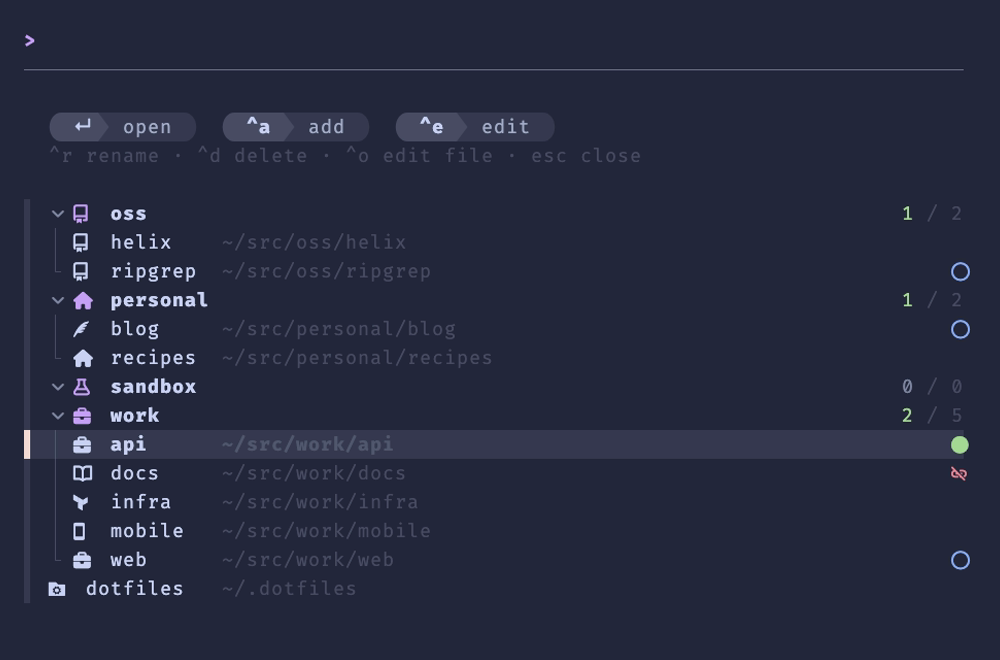
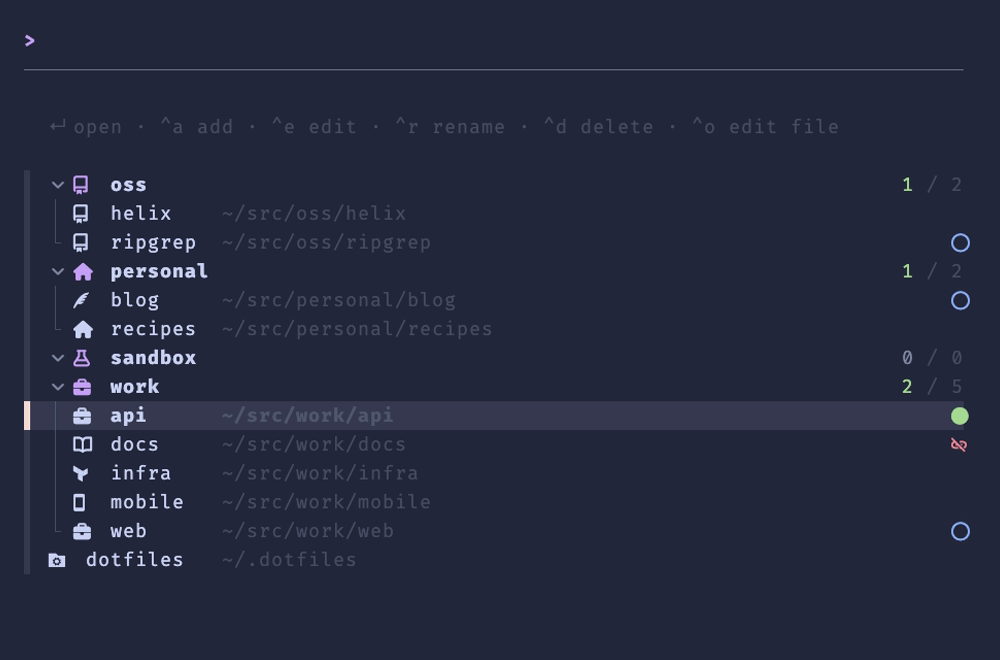
Put the picker's key hints on one line; release 1.0.1 (#18)
- No pills: in pr-tracker pills are dynamic filters, and this picker has
none. The main list, invalid-registry and add/edit headers now use a
single dim hint line (add/edit screens lead with their context, e.g.
`Add ~/src/work/api`, in text colour)
- Removes the pill helpers from `theme.py`; screenshots regenerated
- Release 1.0.1: version bump and CHANGELOG

🤖 Generated with [Claude Code](https://claude.com/claude-code)

https://claude.ai/code/session_01WdnVnGihazJj3fMLks7EL1

---------

diff --git a/tests/test_flow.py b/tests/test_flow.py
@@ -162,9 +162,9 @@ def test_add_with_a_group_and_its_icon(root, here, script):
     assert added(root) == [Project(name="unregistered", group="work", path=str(here))]
     assert calls[0]["prompt"] == "Name: "
     assert calls[0]["args"][-2:] == ("--query", "unregistered")
-    assert calls[0]["header"] == theme.header(
-        theme.LATTE, [theme.pill("Add", "~/unregistered", theme.LATTE)], flow.HINTS
-    )
+    assert calls[0]["header"] == theme.header(theme.LATTE, flow.HINTS, title="Add ~/unregistered")
+    hints = theme.strip(calls[0]["header"]).split("\n")[1]
+    assert hints == "Add ~/unregistered · \u21b5 accept · esc discards"
     assert calls[1]["text"].split("\n")[2] == "   none\t"
     assert "load:pos(3)" in calls[1]["args"]
 
@@ -227,7 +227,7 @@ def test_add_on_a_registered_path_edits_it(root, herdr, monkeypatch, script):
     answers, calls = script
     answers += ["", row("=home"), row("used by gone")]
     assert flow.add() == "Updated G home/notes"
-    assert theme.pill("Edit", "~/notes", theme.LATTE) in calls[0]["header"]
+    assert theme.strip(calls[0]["header"]).split("\n")[1] == f"Edit ~/notes · {flow.HINTS}"
     assert calls[0]["args"][-2:] == ("--query", "notes")
     assert "load:pos(3)" in calls[1]["args"]
     assert "load:pos(5)" in calls[2]["args"]
@@ -249,7 +249,7 @@ def test_the_flow_is_drawn_in_the_popups_palette(root, herdr, script):
     answers, calls = script
     answers += [Cancelled]
     assert flow.edit("work/api", theme.MACCHIATO) == ""
-    assert theme.pill("Edit", "~/api", theme.MACCHIATO) in calls[0]["header"]
+    assert calls[0]["header"] == theme.header(theme.MACCHIATO, flow.HINTS, title="Edit ~/api")
 
 
 def test_edit_that_changes_nothing_leaves_the_file_alone(root, herdr, script):
@@ -359,9 +359,7 @@ def test_edit_group_renames_it_and_its_projects(root, herdr, script):
     assert labels == ["gone", "notes", "home/web", "job/api", "job/web"]
     assert [c["prompt"] for c in calls] == ["Name: ", "Icon: "]
     assert calls[0]["args"][-2:] == ("--query", "work")
-    assert calls[0]["header"] == theme.header(
-        theme.LATTE, [theme.pill("Edit group", "work", theme.LATTE)], flow.HINTS
-    )
+    assert calls[0]["header"] == theme.header(theme.LATTE, flow.HINTS, title="Edit group work")
 
 
 def test_edit_group_starts_on_keep_current(root, herdr, script):

diff --git a/lib/herdr_projects/theme.py b/lib/herdr_projects/theme.py
@@ -1,4 +1,4 @@
-"""The picker's look, copied from pr-tracker: Catppuccin Latte or Macchiato, key pills.
+"""The picker's look, copied from pr-tracker: Catppuccin Latte or Macchiato, a dim hint line.
 
 Hue is for status only; chrome draws from the neutral ramp.
 """
@@ -50,10 +50,6 @@ MACCHIATO: Palette = {
     "blue": (138, 173, 244),
 }
 
-PILL_L = ""  # nf-ple-left_half_circle_thick
-PILL_R = ""  # nf-ple-right_half_circle_thick
-PILL_SEP = ""  # nf-pl-left_hard_divider
-
 RESET = "\x1b[0m"
 ANSI_RE = re.compile(r"\x1b\[[0-9;]*m")
 
@@ -64,10 +60,6 @@ def sgr(rgb: RGB, bold: bool = False, dim: bool = False) -> str:
         attrs.append("2")
     attrs.append(f"38;2;{rgb[0]};{rgb[1]};{rgb[2]}")
     return f"\x1b[{';'.join(attrs)}m"
-
-
-def bg(rgb: RGB) -> str:
-    return f"\x1b[48;2;{rgb[0]};{rgb[1]};{rgb[2]}m"
 
 
 def paint(text: str, rgb: RGB, bold: bool = False, dim: bool = False) -> str:
@@ -121,19 +113,10 @@ def palette(theme: str) -> Palette:
     return MACCHIATO if theme == "dark" else LATTE
 
 
-def pill(key: str, label: str, pal: Palette) -> str:
-    """A rounded chip: the key on its own darker segment, then the label."""
-    key_bg, body_bg = pal["surface1"], pal["surface"]
-    return (
-        f"{sgr(key_bg)}{PILL_L}{RESET}"
-        f"{bg(key_bg)}{sgr(pal['text'], bold=True)} {key} {RESET}"
-        f"{bg(body_bg)}{sgr(key_bg)}{PILL_SEP}{RESET}"
-        f"{bg(body_bg)}{sgr(pal['subtext'])} {label} {RESET}"
-        f"{sgr(body_bg)}{PILL_R}{RESET}"
-    )
-
-
-def header(pal: Palette, pills: list[str], hints: str, notice: str = "") -> str:
-    """A blank row, the pills, the dim hints, then the notice or another blank row."""
-    lines = [" ", "  ".join(pills), paint(hints, pal["overlay0"], dim=True), notice or " "]
-    return "\n".join(lines)
+def header(pal: Palette, hints: str, notice: str = "", title: str = "") -> str:
+    """A blank row, the dim hints after the title if there is one, then the notice or another
+    blank row."""
+    line = paint(f" · {hints}" if title else hints, pal["overlay0"], dim=True)
+    if title:
+        line = paint(title, pal["text"], bold=True) + line
+    return "\n".join([" ", line, notice or " "])

diff --git a/tests/test_picker.py b/tests/test_picker.py
@@ -374,15 +374,10 @@ def test_glyphs_are_single_codepoints():
 # header
 
 
-def test_header_pills_the_main_keys_and_dims_the_rest():
+def test_header_is_one_dim_line_of_keys():
     lines = picker.header(LATTE, True).split("\n")
-    pills = [theme.pill(key, label, LATTE) for key, label in picker.PILLS]
-    assert lines == [" ", "  ".join(pills), paint(picker.HINTS, LATTE["overlay0"], dim=True), " "]
-    assert [strip(p).split()[1:4:2] for p in pills] == [
-        ["\u21b5", "open"],
-        ["^a", "add"],
-        ["^e", "edit"],
-    ]
+    assert lines == [" ", paint(picker.HINTS, LATTE["overlay0"], dim=True), " "]
+    assert picker.HINTS == "\u21b5 open · ^a add · ^e edit · ^r rename · ^d delete · ^o edit file"
 
 
 def test_header_fits_a_narrow_popup():
@@ -392,15 +387,16 @@ def test_header_fits_a_narrow_popup():
 
 
 def test_header_of_an_invalid_registry():
-    header = strip(picker.header(LATTE, False))
-    assert "^o" in header and "edit projects.toml" in header and "^a" not in header
+    lines = picker.header(LATTE, False).split("\n")
+    assert lines == [" ", paint(picker.INVALID_HINTS, LATTE["overlay0"], dim=True), " "]
+    assert picker.INVALID_HINTS == "^o edit projects.toml · esc close"
 
 
 @pytest.mark.parametrize("pal", [LATTE, MACCHIATO])
 def test_notices_are_green_and_problems_red(pal):
-    done = picker.header(pal, True, "Deleted x").split("\n")[3]
+    done = picker.header(pal, True, "Deleted x").split("\n")[2]
     assert done == paint("Deleted x", pal["green"])
-    failed = picker.header(pal, True, picker.Problem("no server")).split("\n")[3]
+    failed = picker.header(pal, True, picker.Problem("no server")).split("\n")[2]
     assert failed == paint("no server", pal["red"])
 
 
@@ -895,7 +891,7 @@ def test_run_shows_a_failure_in_red(root, herdr, session):
     open_workspaces(herdr)
     answers += [("", "p:gone"), None]
     assert picker.run() == 0
-    assert calls[1][1].split("\n")[3] == paint("No such directory: ~/gone", LATTE["red"])
+    assert calls[1][1].split("\n")[2] == paint("No such directory: ~/gone", LATTE["red"])
 
 
 def test_run_shows_an_invalid_registry(root, herdr, session):

diff --git a/tests/test_theme.py b/tests/test_theme.py
@@ -80,29 +80,19 @@ def test_palette():
 def test_paint_and_strip():
     text = theme.paint("hi", (1, 2, 3), bold=True, dim=True)
     assert text == "\x1b[1;2;38;2;1;2;3mhi\x1b[0m"
-    assert theme.strip(text + theme.bg((4, 5, 6)) + "!") == "hi!"
+    assert theme.strip(text + "\x1b[48;2;4;5;6m!") == "hi!"
 
 
-def test_pill_is_key_then_label_between_caps():
-    text = theme.pill("^a", "add", theme.LATTE)
-    assert theme.strip(text) == f"{theme.PILL_L} ^a {theme.PILL_SEP} add {theme.PILL_R}"
-    assert theme.bg(theme.LATTE["surface1"]) in text
+def test_header_is_blank_dim_hints_then_notice_or_blank():
+    hints = theme.paint("^a add · esc close", theme.LATTE["overlay0"], dim=True)
+    assert theme.header(theme.LATTE, "^a add · esc close").split("\n") == [" ", hints, " "]
+    assert theme.header(theme.LATTE, "^a add · esc close", "Added").split("\n")[2] == "Added"
 
 
-def test_header_is_blank_pills_hints_then_notice_or_blank():
-    pills = [theme.pill("^a", "add", theme.LATTE), theme.pill("^e", "edit", theme.LATTE)]
-    lines = theme.header(theme.LATTE, pills, "esc close").split("\n")
-    assert [theme.strip(line) for line in lines] == [
-        " ",
-        theme.strip("  ".join(pills)),
-        "esc close",
-        " ",
-    ]
-    assert lines[2] == theme.paint("esc close", theme.LATTE["overlay0"], dim=True)
-    assert theme.header(theme.LATTE, pills, "esc close", "Added").split("\n")[3] == "Added"
-
-
-def test_glyphs_are_single_codepoints():
-    glyphs = [value for name, value in vars(theme).items() if name.startswith("PILL_")]
-    assert len(glyphs) == 3
-    assert all(len(g) == 1 for g in glyphs)
+@pytest.mark.parametrize("pal", [theme.LATTE, theme.MACCHIATO])
+def test_a_title_leads_the_hints_in_text_colour(pal):
+    line = theme.header(pal, "esc discards", title="Add ~/api").split("\n")[1]
+    assert line == (
+        theme.paint("Add ~/api", pal["text"], bold=True)
+        + theme.paint(" · esc discards", pal["overlay0"], dim=True)
+    )

diff --git a/lib/herdr_projects/flow.py b/lib/herdr_projects/flow.py
@@ -113,8 +113,8 @@ def change(
     registry: Registry, path: str, old: Project | None = None, pal: Palette = theme.LATTE
 ) -> str:
     """Run the flow for a new project at `path`, or for `old`; returns the notice."""
-    title = theme.pill("Edit" if old else "Add", collapse_home(path), pal)
-    header = theme.header(pal, [title], HINTS)
+    title = f"{'Edit' if old else 'Add'} {collapse_home(path)}"
+    header = theme.header(pal, HINTS, title=title)
     try:
         name = ask(header, "Name: ", old.name if old else os.path.basename(path))
         group, new = pick_group(registry, header, old.group if old else None)
@@ -135,7 +135,7 @@ def change(
 def edit_group(name: str, pal: Palette = theme.LATTE) -> str:
     registry = load_registry()
     old = find_group(registry, name)
-    header = theme.header(pal, [theme.pill("Edit group", old.name, pal)], HINTS)
+    header = theme.header(pal, HINTS, title=f"Edit group {old.name}")
     try:
         name = ask(header, "Name: ", old.name)
         icon = pick_icon(registry, header, "Icon: ", skip=True, keep=old.icon, current=old.icon)

diff --git a/lib/herdr_projects/picker.py b/lib/herdr_projects/picker.py
@@ -89,10 +89,9 @@ SEARCH = (
 UNSEARCHED = "\t\t\t"
 
 KEYS = ("ctrl-r", "ctrl-a", "ctrl-e", "ctrl-d", "ctrl-o")
-PILLS = ((ICO_ENTER, "open"), ("^a", "add"), ("^e", "edit"))
-HINTS = "^r rename · ^d delete · ^o edit file · esc close"
-INVALID_PILLS = (("^o", "edit projects.toml"),)
-INVALID_HINTS = "esc close"
+# esc close doesn't fit a narrow popup's header.
+HINTS = f"{ICO_ENTER} open · ^a add · ^e edit · ^r rename · ^d delete · ^o edit file"
+INVALID_HINTS = "^o edit projects.toml · esc close"
 
 
 class Problem(str):
@@ -273,10 +272,9 @@ def invalid_row(message: str, pal: Palette, width: int) -> str:
 
 
 def header(pal: Palette, valid: bool, notice: str = "") -> str:
-    pills = [theme.pill(key, label, pal) for key, label in (PILLS if valid else INVALID_PILLS)]
     if notice:
         notice = paint(notice, pal["red"] if isinstance(notice, Problem) else pal["green"])
-    return theme.header(pal, pills, HINTS if valid else INVALID_HINTS, notice)
+    return theme.header(pal, HINTS if valid else INVALID_HINTS, notice)
 
 
 def statuses(registry: Registry) -> dict[str, str]:

diff --git a/lib/herdr_projects/__init__.py b/lib/herdr_projects/__init__.py
@@ -1,4 +1,4 @@
 """herdr-projects: a curated project list for herdr, opened and labelled from a popup."""
 
-VERSION = "1.0.0"
+VERSION = "1.0.1"
 PLUGIN_ID = "herdr-projects"

diff --git a/CHANGELOG.md b/CHANGELOG.md
@@ -4,6 +4,12 @@ All notable changes to this project are documented here. The format follows [Kee
 
 ## [Unreleased]
 
+## [1.0.1] - 2026-09-27
+
+### Changed
+
+- The picker's key hints are one line, without pills. The add and edit steps lead it with what they're changing.
+
 ## [1.0.0] - 2026-09-27
 
 ### Added
@@ -23,5 +29,6 @@ All notable changes to this project are documented here. The format follows [Kee
 - `scripts/gen-glyphs.py`, which generates the icon picker's glyph list from Nerd Fonts' `glyphnames.json` (committed for Nerd Fonts 3.5.1).
 - An example `projects.toml`, checked in CI.
 
-[Unreleased]: https://github.com/wmxscott/herdr-projects/compare/v1.0.0...HEAD
+[Unreleased]: https://github.com/wmxscott/herdr-projects/compare/v1.0.1...HEAD
+[1.0.1]: https://github.com/wmxscott/herdr-projects/compare/v1.0.0...v1.0.1
 [1.0.0]: https://github.com/wmxscott/herdr-projects/releases/tag/v1.0.0
